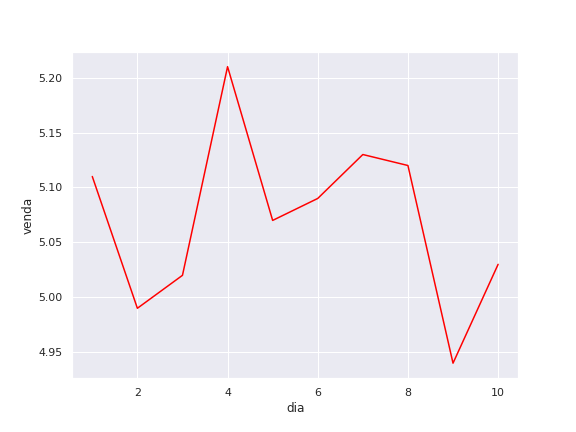
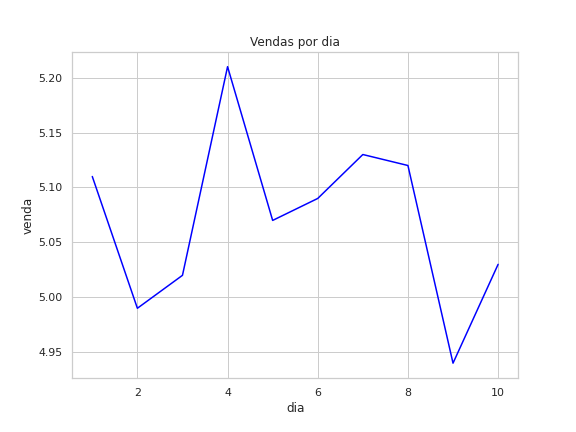
2 Arquivos atualizados na branch Dev

diff --git a/gasolina.py b/gasolina.py
@@ -21,10 +21,13 @@ data
 pd.read_csv("gasolina.csv")
 print(data)
 plt.figure(figsize=(8,6))
-sns.set_theme(style="darkgrid")
+sns.set_theme(style="whitegrid")
 sns.lineplot(data=data,
 x='dia',
 y='venda',
-color='red')
+color='blue')
+plt.title('Vendas
+por
+dia')
 plt.savefig('gasolina.png',
 format='png')
